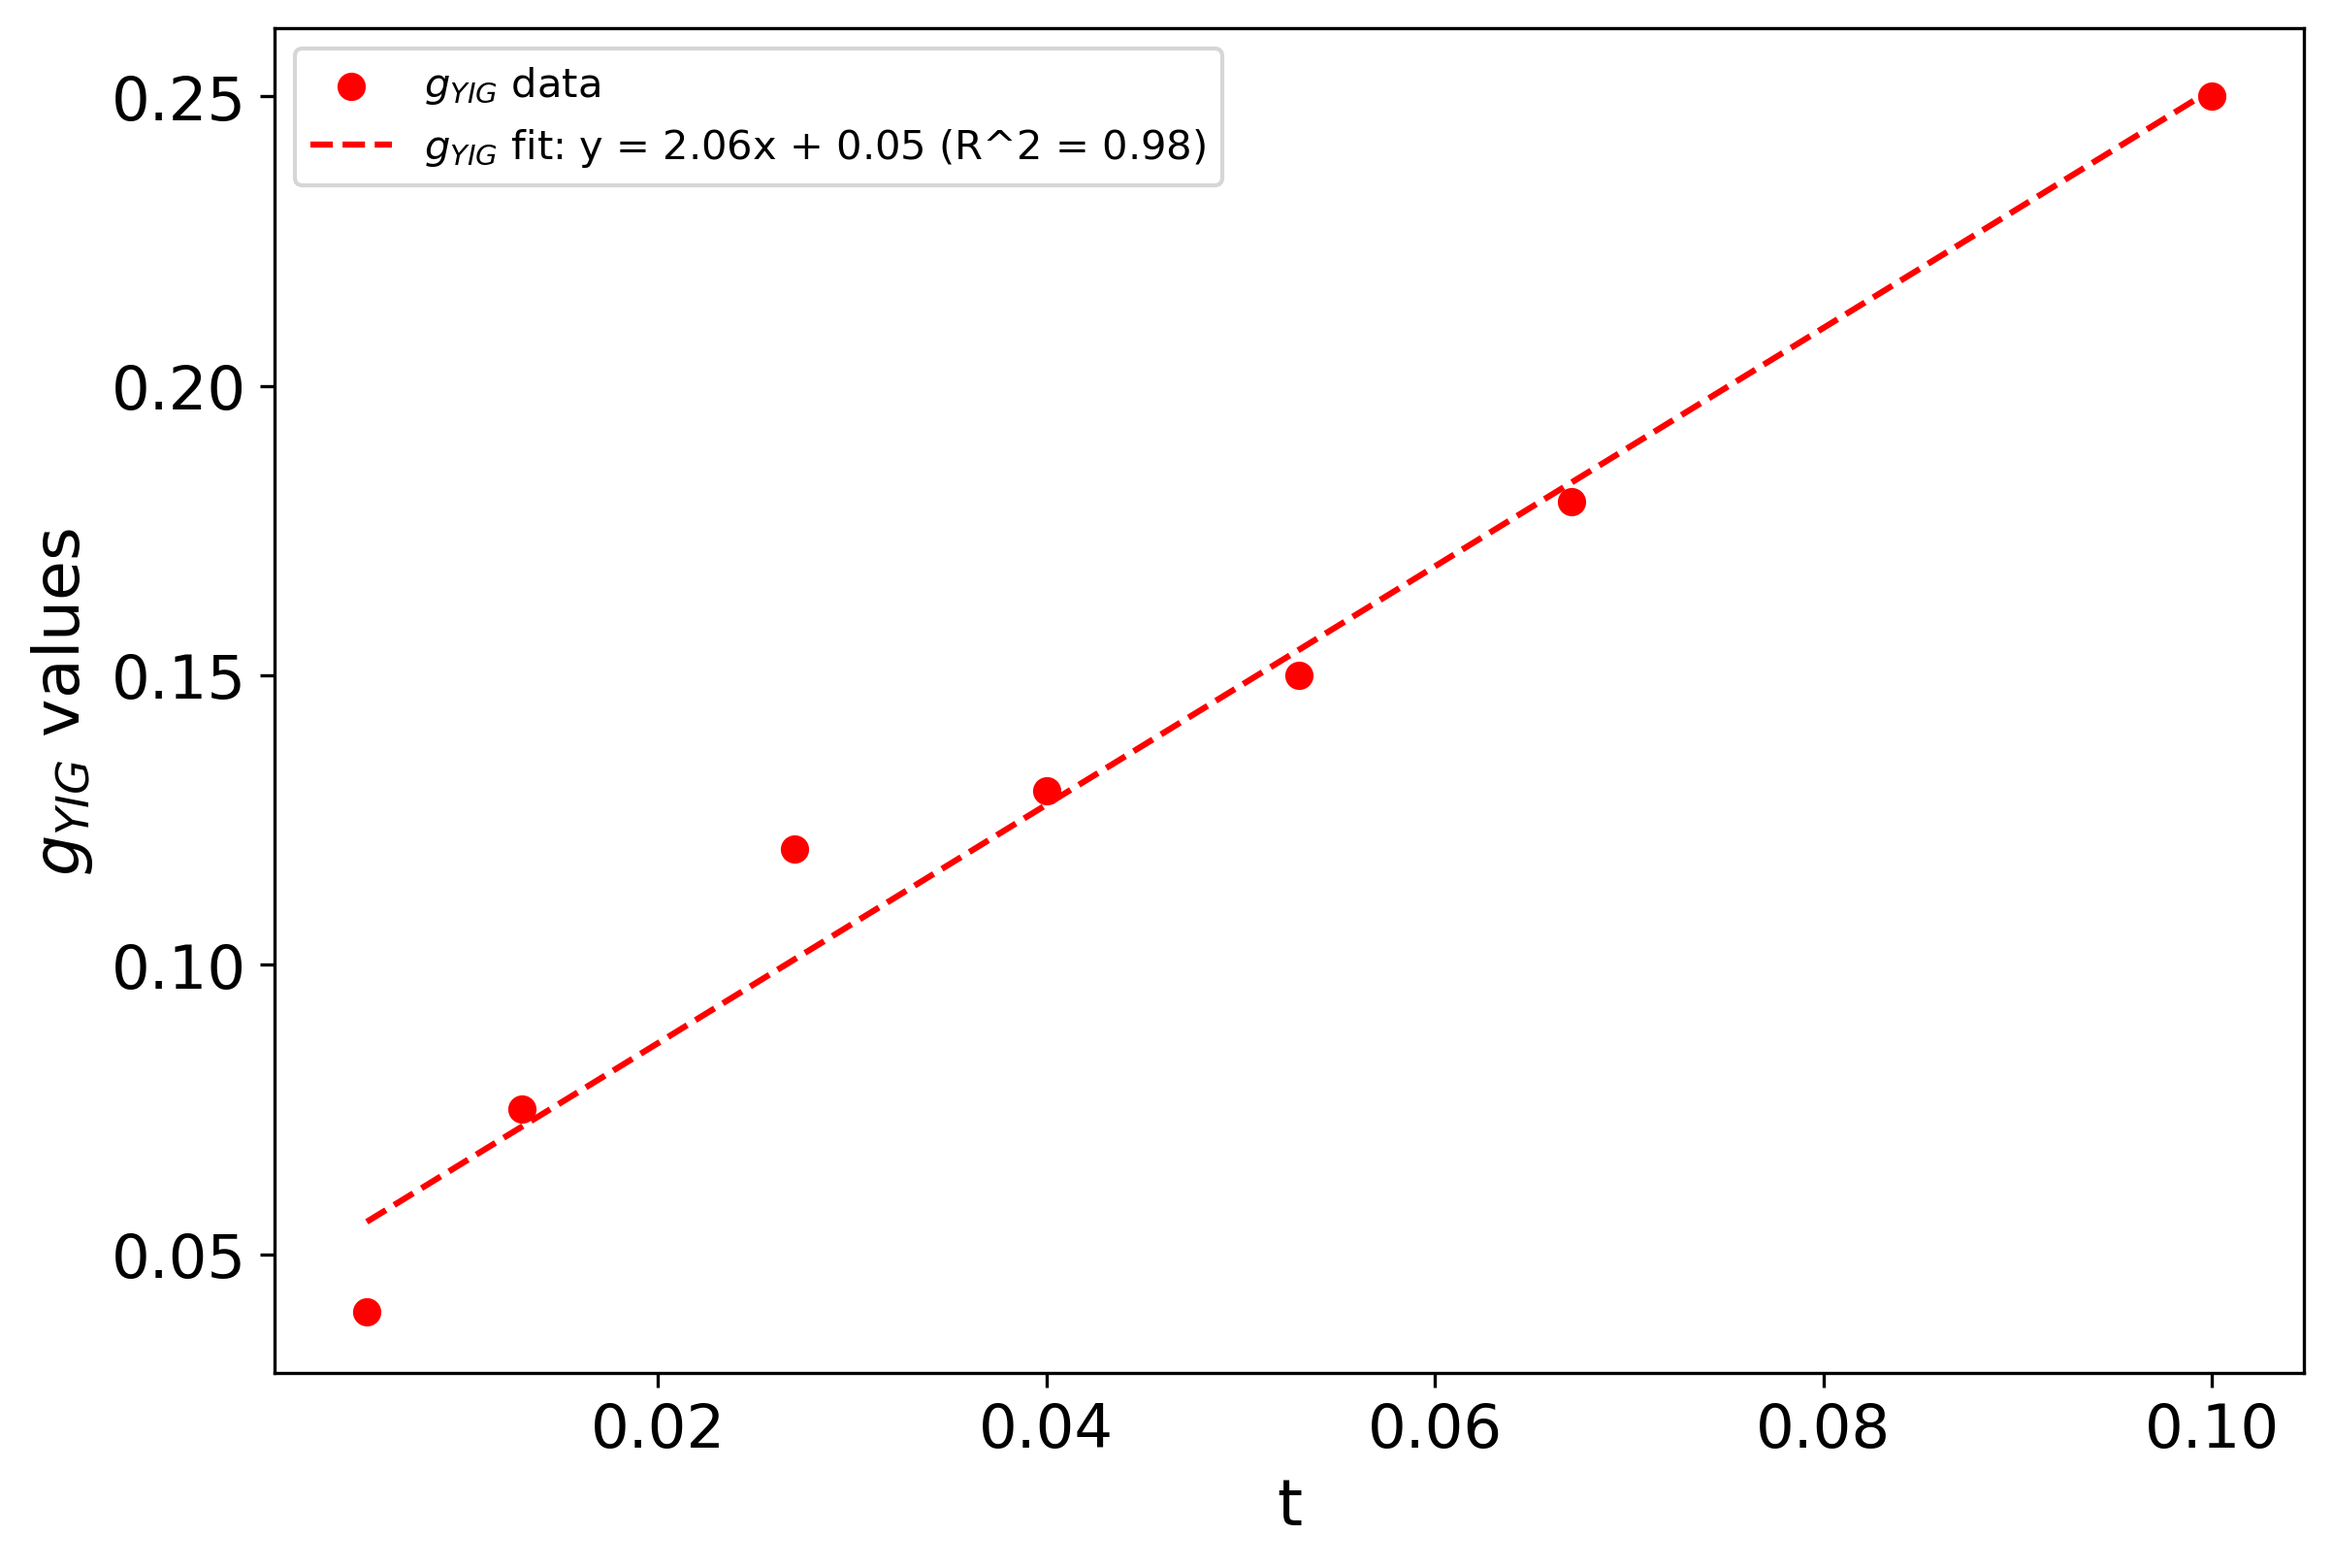
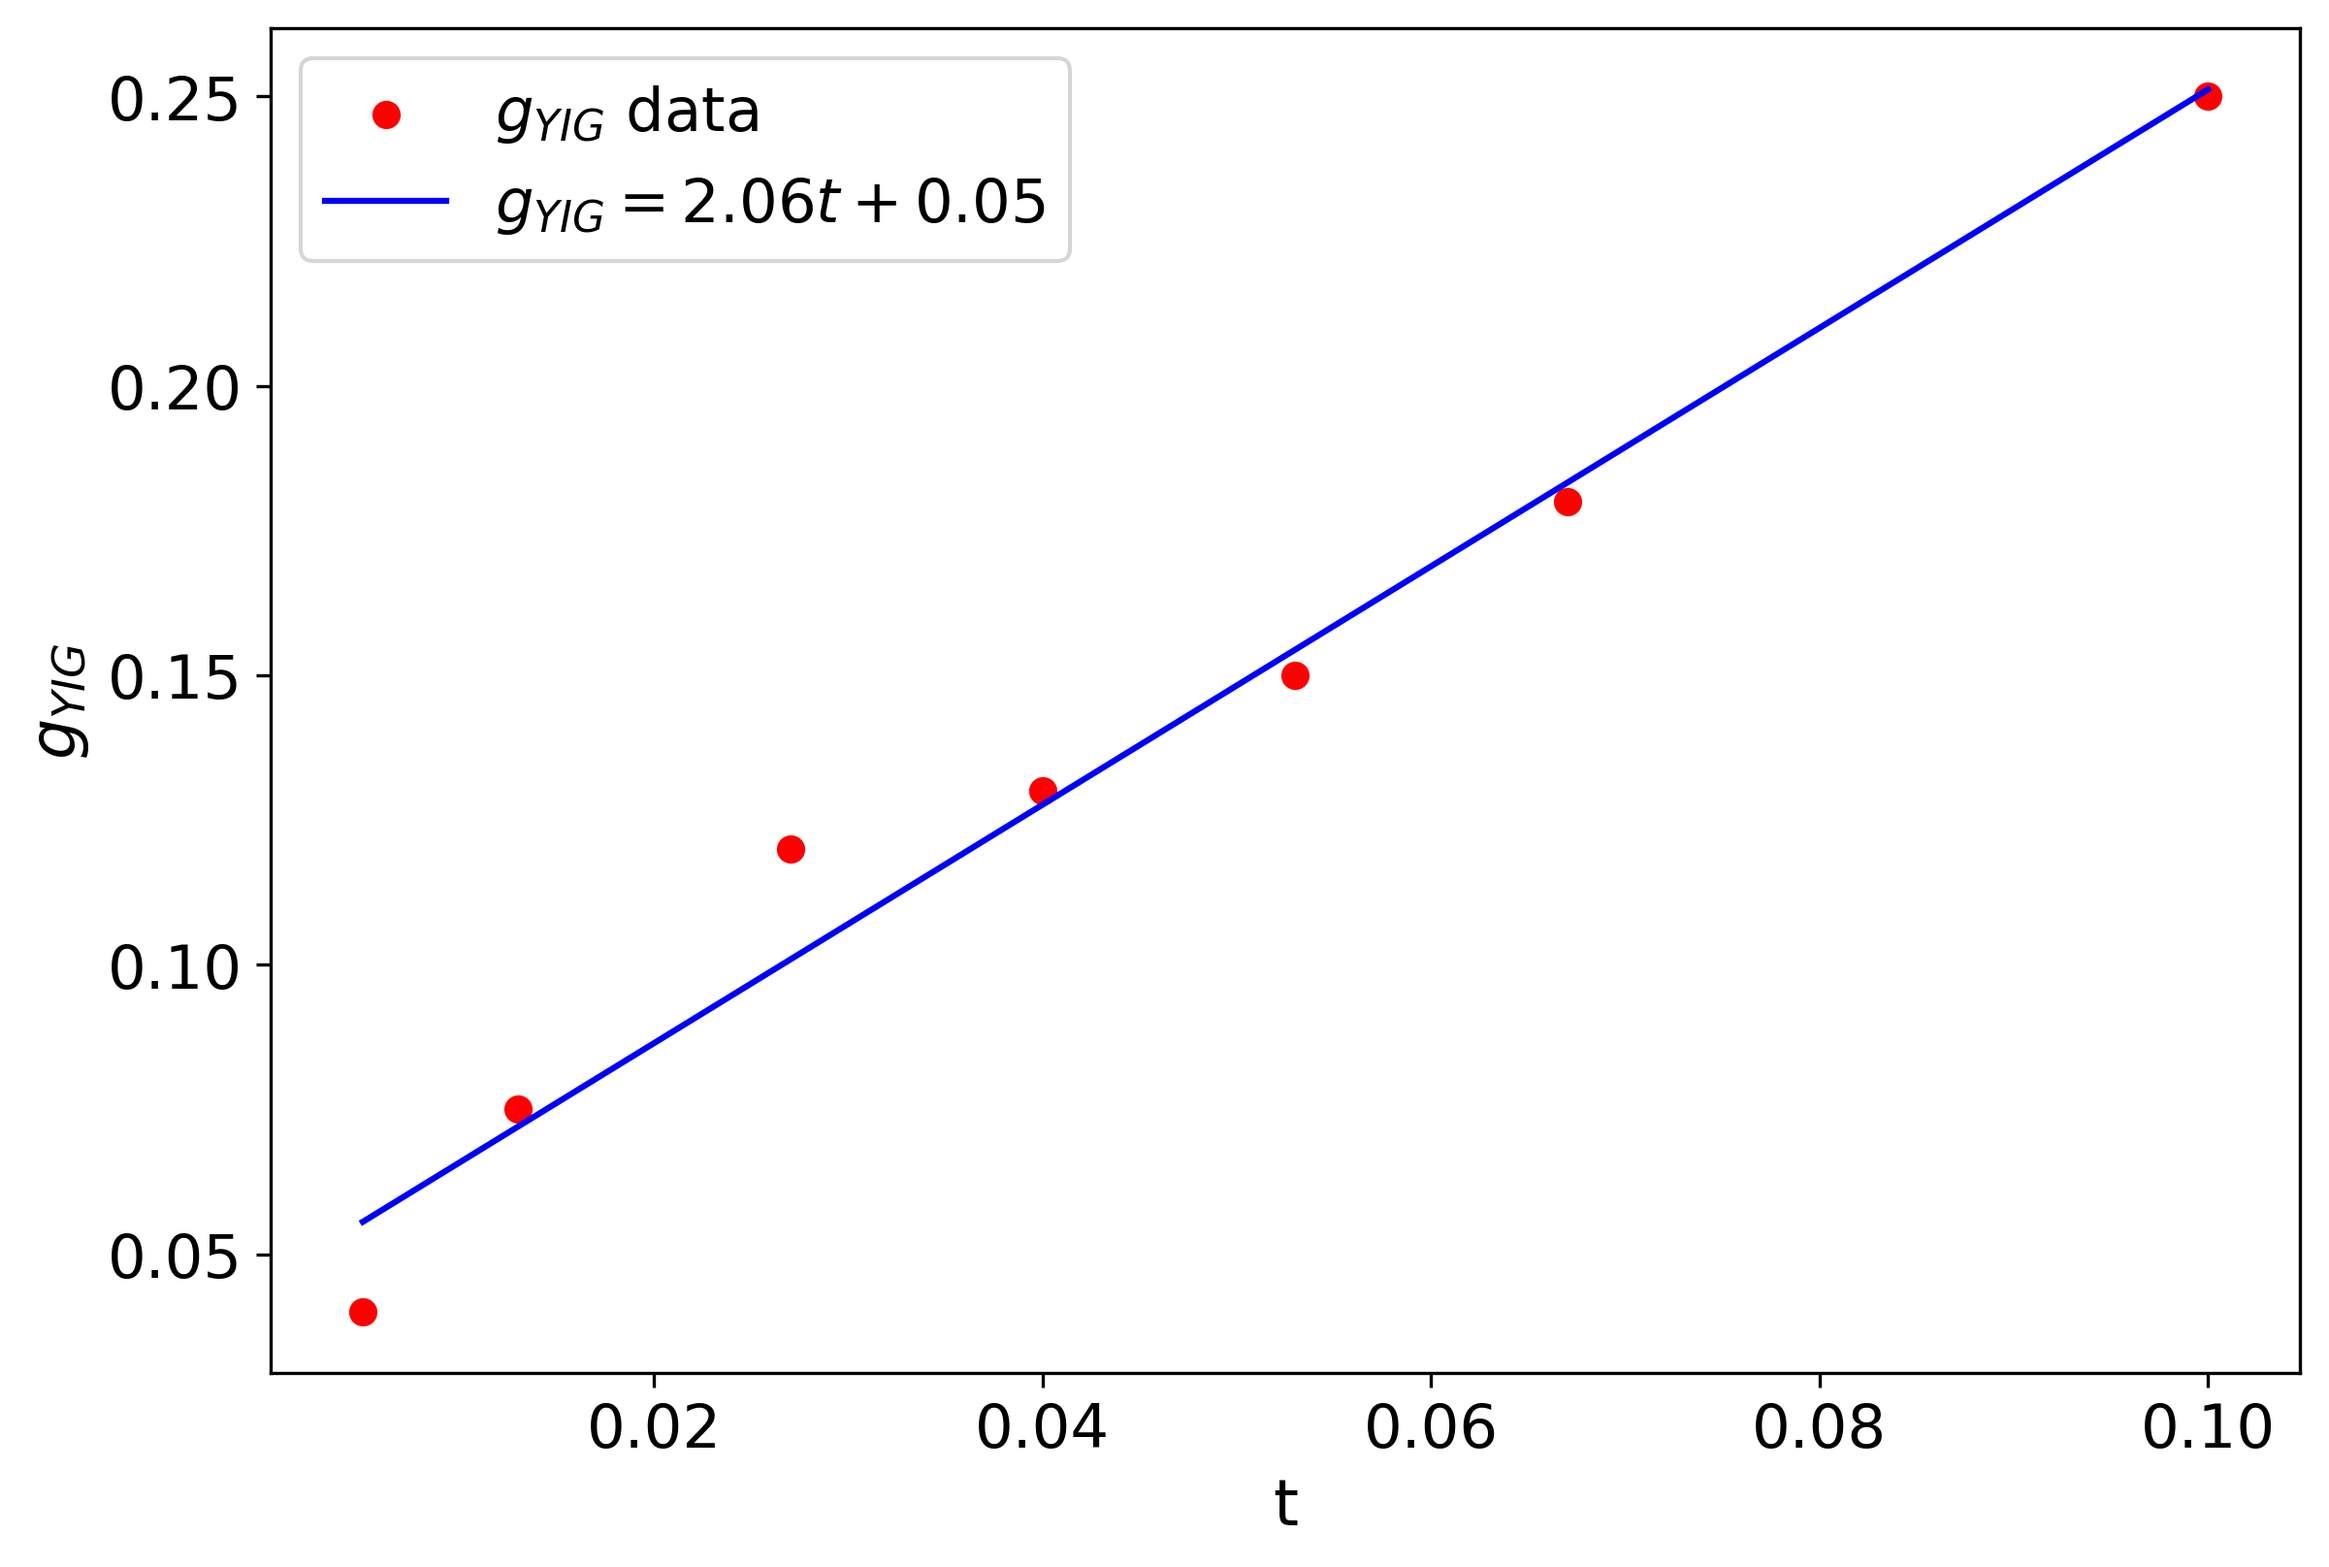
Refactor plotting scripts and update image paths
- Updated execution counts to null in Jupyter notebooks for better reproducibility.
- Changed image save paths in plotting scripts to 'tentative\\images\\' for consistency.
- Enhanced legend font size in plots for better readability.
- Modified g1 and g2 fit labels for clarity in g1g2_vs_t_plotter_saturation.py.
- Added missing parameters in s21_theoretical function in local_fit_plot_tr_photon.ipynb.
- Improved comments and code structure in local_fit_plot_tr_photon.ipynb.
- Added new script gyig_vs_t.py for plotting g_YIG vs t with linear regression.

diff --git a/g vs t/g1g2_vs_t_plotter_saturation.py b/g vs t/g1g2_vs_t_plotter_saturation.py
@@ -125,15 +125,15 @@ g2_fit_vals = g2_model.predict(t.reshape(-1, 1))
 r2_g2 = g2_model.score(t.reshape(-1, 1), g2)
 
 # g1 data and fit
-plt.scatter(t, g1, color='blue', label='$g_{Py}$ data')
-plt.plot(t, g1_fit_vals, 'b--', label=f'$g_{{Py}}$ fit: y = {g1_model.coef_[0]:.2f}x + {g1_model.intercept_:.2f} (R^2 = {r2_g1:.2f})')
+plt.scatter(t, g1, color='r', label='$g_{Py}$ data')
+plt.plot(t, g1_fit_vals, 'b-', label=f'$g_{{Py}} = {g1_model.coef_[0]:.2f}t + {g1_model.intercept_:.2f}$')# (R^2 = {r2_g1:.2f})$')
 
 plt.xlabel('t',fontsize=16)
-plt.ylabel('$g_{Py}$ values',fontsize=16)
+plt.ylabel('$g_{Py}$',fontsize=16)
 plt.tick_params(axis='both', which='major', labelsize=15)
 plt.tick_params(axis='both', which='minor', labelsize=8)
 # plt.title(f'Saturation Fits for g1 and g2 (R^2: g1 = {r2_g1:.2f}, g2 = {r2_g2:.2f})')
-plt.legend()
+plt.legend(fontsize=15)
 # plt.grid()
 # plt.show()
 plt.savefig('tentative\\images\\gpy_vs_t.png', dpi=300, bbox_inches='tight')
@@ -142,17 +142,17 @@ plt.close()
 plt.figure(figsize=(9, 6))
 
 # g2 data and fit
-plt.scatter(t, g2, color='red', label='$g_{YIG}$ data')
-plt.plot(t, g2_fit_vals, 'r--', label=f'$g_{{YIG}}$ fit: y = {g2_model.coef_[0]:.2f}x + {g2_model.intercept_:.2f} (R^2 = {r2_g2:.2f})')
+plt.scatter(t, g2, color='r', label='$g_{YIG}$ data')
+plt.plot(t, g2_fit_vals, 'b-', label=f'$g_{{YIG}} = {g2_model.coef_[0]:.2f}t + {g2_model.intercept_:.2f}$')# (R^2 = {r2_g2:.2f})$')
 # plt.plot(t_fit, g2_fit_plot, 'r--', label=f'g2 fit: y = {params_g2[0]:.2f} * (1 - exp(-{params_g2[1]:.2f} * x)) + {params_g2[2]:.2f}')
 
 # Customize plot
 plt.xlabel('t',fontsize=16)
-plt.ylabel('$g_{YIG}$ values',fontsize=16)
+plt.ylabel('$g_{YIG}$',fontsize=16)
 plt.tick_params(axis='both', which='major', labelsize=15)
 plt.tick_params(axis='both', which='minor', labelsize=8)
 # plt.title(f'Saturation Fits for g1 and g2 (R^2: g1 = {r2_g1:.2f}, g2 = {r2_g2:.2f})')
-plt.legend()
+plt.legend(fontsize=15)
 # plt.grid()
 # plt.show()
 plt.savefig('tentative\\images\\gyig_vs_t.png', dpi=300, bbox_inches='tight')

diff --git a/g vs t/gyig_vs_t.py b/g vs t/gyig_vs_t.py
@@ -1,0 +1,47 @@
+import os
+import matplotlib.pyplot as plt
+from scipy.stats import linregress
+import numpy as np
+import pandas as pd
+
+root = os.path.join(os.getcwd(),"data","lone_t_sweep_yig")
+# J_values = np.linspace(0.09, 0.237, 7)
+file_path = 'g_yig_vs_t.csv'
+data = pd.read_csv(file_path)
+
+t_values = data['t']
+J_values = data['g']
+
+# Fit the data to a line
+
+# Extract t and J_values for fitting
+# t_values = [float('0.' + file.split('.')[1]) for file in files if len(file.split('.')[1]) == 3]
+slope, intercept, r_value, p_value, std_err = linregress(t_values, J_values[:len(t_values)])
+
+plt.figure(figsize=(9, 6))
+
+# Plot the fitted line
+t_fit = np.linspace(min(t_values), max(t_values), 100)
+J_fit = slope * t_fit + intercept
+plt.plot(t_values, J_values[:len(t_values)], 'ro', label='Data')
+plt.plot(t_fit, J_fit, 'b-', label=f'$g_{{YIG}}$ = {slope:.3f}t + {intercept:.3f}')
+# for roots,dirs,files in os.walk(root):
+#     # file_path_full = os.path.join(root,f"{type}.csv")
+#     idx = 0
+#     for _, file in enumerate(files):
+#         if len(file.split('.')[1]) == 3:
+#             t_val = float('0.' + file.split('.')[1])
+#             plt.plot(t_val, J_values[idx], 'ro')
+#             idx += 1
+
+
+plt.legend(fontsize=15)
+
+# plt.title('$g_{YIG}$ vs t')
+plt.xlabel('t',fontsize=16)
+plt.ylabel('$g_{YIG}$',fontsize=16)
+# plt.grid()
+plt.tick_params(axis='both', which='major', labelsize=15)
+plt.tick_params(axis='both', which='minor', labelsize=8)
+plt.tight_layout()
+plt.savefig('tentative\\images\\Jvst.png',dpi=300, bbox_inches='tight')

diff --git a/g vs t/g2_vs_g1.py b/g vs t/g2_vs_g1.py
@@ -23,14 +23,14 @@ print(f"Slope: {slope}, Intercept: {intercept}, R-squared: {r_value**2}")
 
 plt.figure(figsize=(9, 6))
 
-plt.plot(g2,g1,'r.',markersize=16)
+plt.plot(g2,g1,'r.',markersize=16,label='Data')
 plt.xlabel("$g_{YIG}$",fontsize=16)
 plt.ylabel("$g_{Py}$",fontsize=16)
 plt.tick_params(axis='both', which='major', labelsize=15)
 plt.tick_params(axis='both', which='minor', labelsize=8)
-plt.plot(g2, slope * g2 + intercept, 'b-', label=f'Fit: g1 = {slope:.2f} * g2 + {intercept:.2f}')
+plt.plot(g2, slope * g2 + intercept, 'b-', label=f'Fit: $g_{{Py}} = {slope:.2f} g_{{YIG}} + {intercept:.2f}$')
 # plt.legend(fontsize=12)
-plt.legend()
+plt.legend(fontsize=15)
 plt.tight_layout()
 plt.savefig("tentative\\images\\g2_vs_g1.png",dpi=300,bbox_inches='tight')
 plt.close()

diff --git a/g vs t/g1g2_vs_t_plotter.py b/g vs t/g1g2_vs_t_plotter.py
@@ -44,6 +44,6 @@ plt.plot(t_fit, g2_log_fit, label=f'g2 log fit: a={round(params_log_g2[0],3)} b=
 plt.xlabel('t ($\\mu$m)')
 plt.ylabel('g values (arb. units)')
 plt.title('g1 and g2 vs t with logarithmic fits')
-plt.legend()
+plt.legend(fontsize=15)
 plt.tight_layout()
 plt.savefig("g vs t.png")
